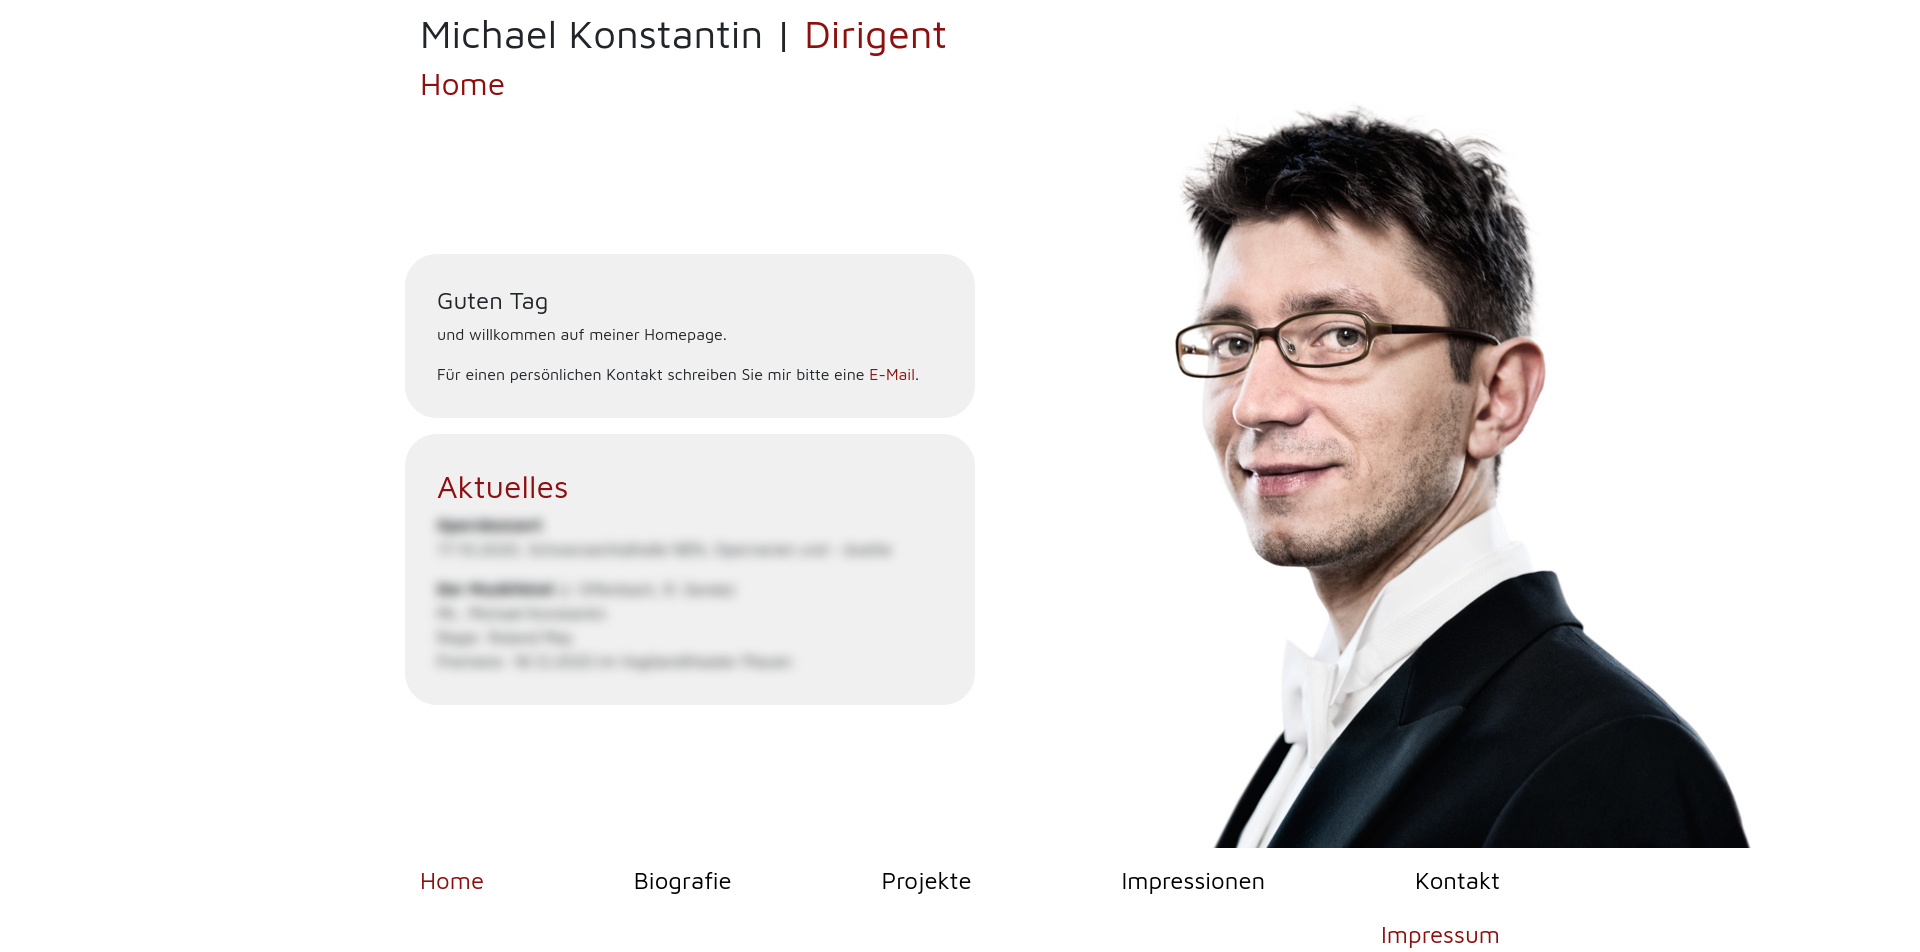
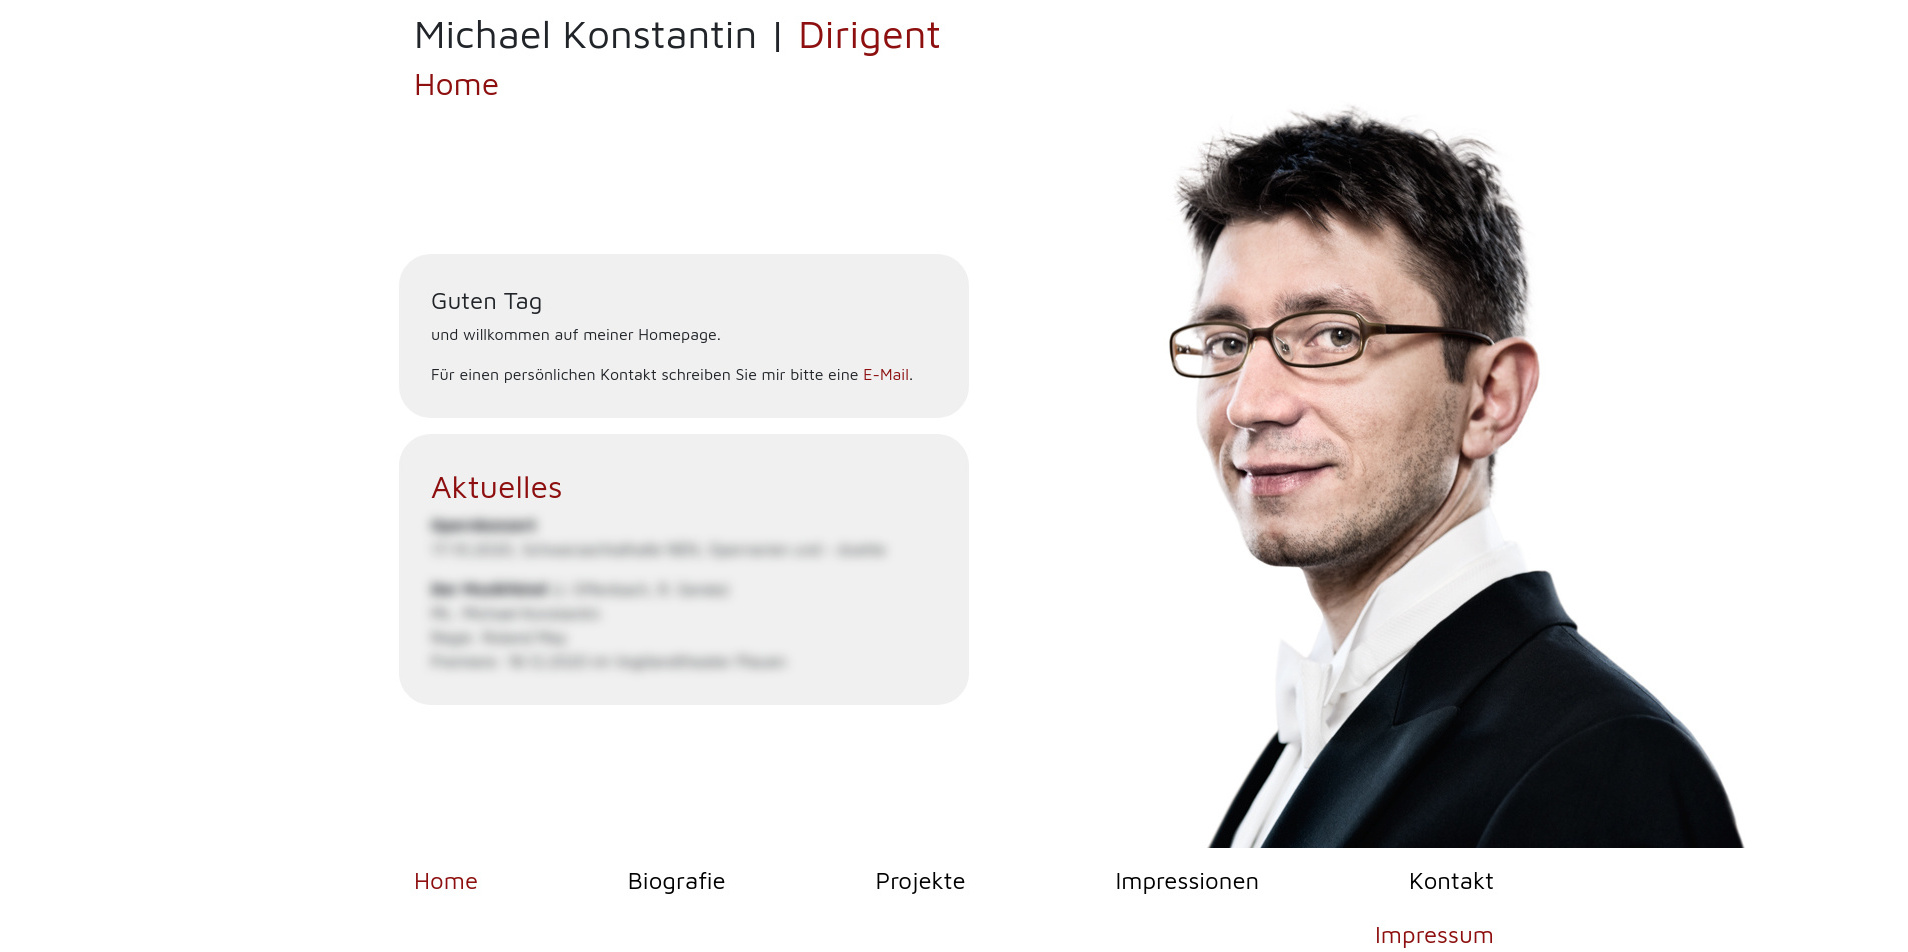
added webp

diff --git a/static/css.css b/static/css.css
@@ -57,6 +57,9 @@ nav {
 img.client-work {
     width: 100%;
 }
+a.client-work {
+    text-decoration: none;
+}
 
 @media (min-width: 576px) {
     img.client-work {

diff --git a/builder.py b/builder.py
@@ -16,11 +16,8 @@ class Part():
 
 def resize(file_name):
 
-  try:
-      if not os.path.exists("static/img"):
-        os.mkdir("static/img")
-  except OSError:
-      print ("Creation of the directory %s failed" % path)
+  if not os.path.exists("static/img"):
+    os.mkdir("static/img")
   sizes = []
   if (m := re.search(r"^(?P<name>.*)\.(?P<ext>...)$", file_name)):
     file_name = m.group("name")
@@ -29,13 +26,14 @@ def resize(file_name):
   else:
     ext = "jpg"
   im = Image.open(f"resources/{file_name}.{ext}")
+  im.save(f"static/img/{file_name}.{ext}")
   for s in [im.width, 1400, 1000, 800, 400]:
-    sizes.append(f"img/{file_name}-{s}.{ext} {s}w")
-    if os.path.exists(f"static/img/{file_name}-{s}.{ext}"):
+    sizes.append(f"img/{file_name}-{s}.webp {s}w")
+    if os.path.exists(f"static/img/{file_name}-{s}.webp"):
       continue
     im.thumbnail((s, s))
-    im.save(f"static/img/{file_name}-{s}.{ext}")
-  return ', '.join(sizes)
+    im.save(f"static/img/{file_name}-{s}.webp", "webp")
+  return (f"img/{file_name}.{ext}", ', '.join(sizes))
 
 parts = []
 
@@ -51,9 +49,9 @@ web_data = [
 content = ""
 for i in web_data:
   domain, description, file_name = i
-  sizes = resize(file_name)
-  content += f"""<a href="{domain}" title="{description}">
-<img sizes="(min-width: 576px) 50vw, (min-width: 1200px) 33vw, 100vw" class="client-work" src="img/{file_name}-400.jpg" alt="{file_name}" srcset="{sizes}">
+  fallback, sizes = resize(file_name)
+  content += f"""<a class="client-work" href="{domain}" title="{description}">
+<img sizes="(min-width: 576px) 50vw, (min-width: 1200px) 33vw, 100vw" src="{fallback}" class="client-work" alt="{file_name}" srcset="{sizes}">
 </a>"""
 
 parts.append(Part("projects", "Personal Projects", content))
@@ -72,9 +70,9 @@ web_data = [
 content = ""
 for i in web_data:
   domain, description, file_name = i
-  sizes = resize(file_name)
-  content += f"""<a href="{domain}" title="Website for {description}">
-<img sizes="(min-width: 576px) 50vw, (min-width: 1200px) 33vw, 100vw" class="client-work" src="img/{file_name}-400.jpg" alt="{file_name}" srcset="{sizes}">
+  fallback, sizes = resize(file_name)
+  content += f"""<a class="client-work" href="{domain}" title="Website for {description}">
+<img sizes="(min-width: 576px) 50vw, (min-width: 1200px) 33vw, 100vw" class="client-work" src="{fallback}" alt="{file_name}" srcset="{sizes}">
 </a>"""
 
 parts.append(Part("web", "Web Development", content))
